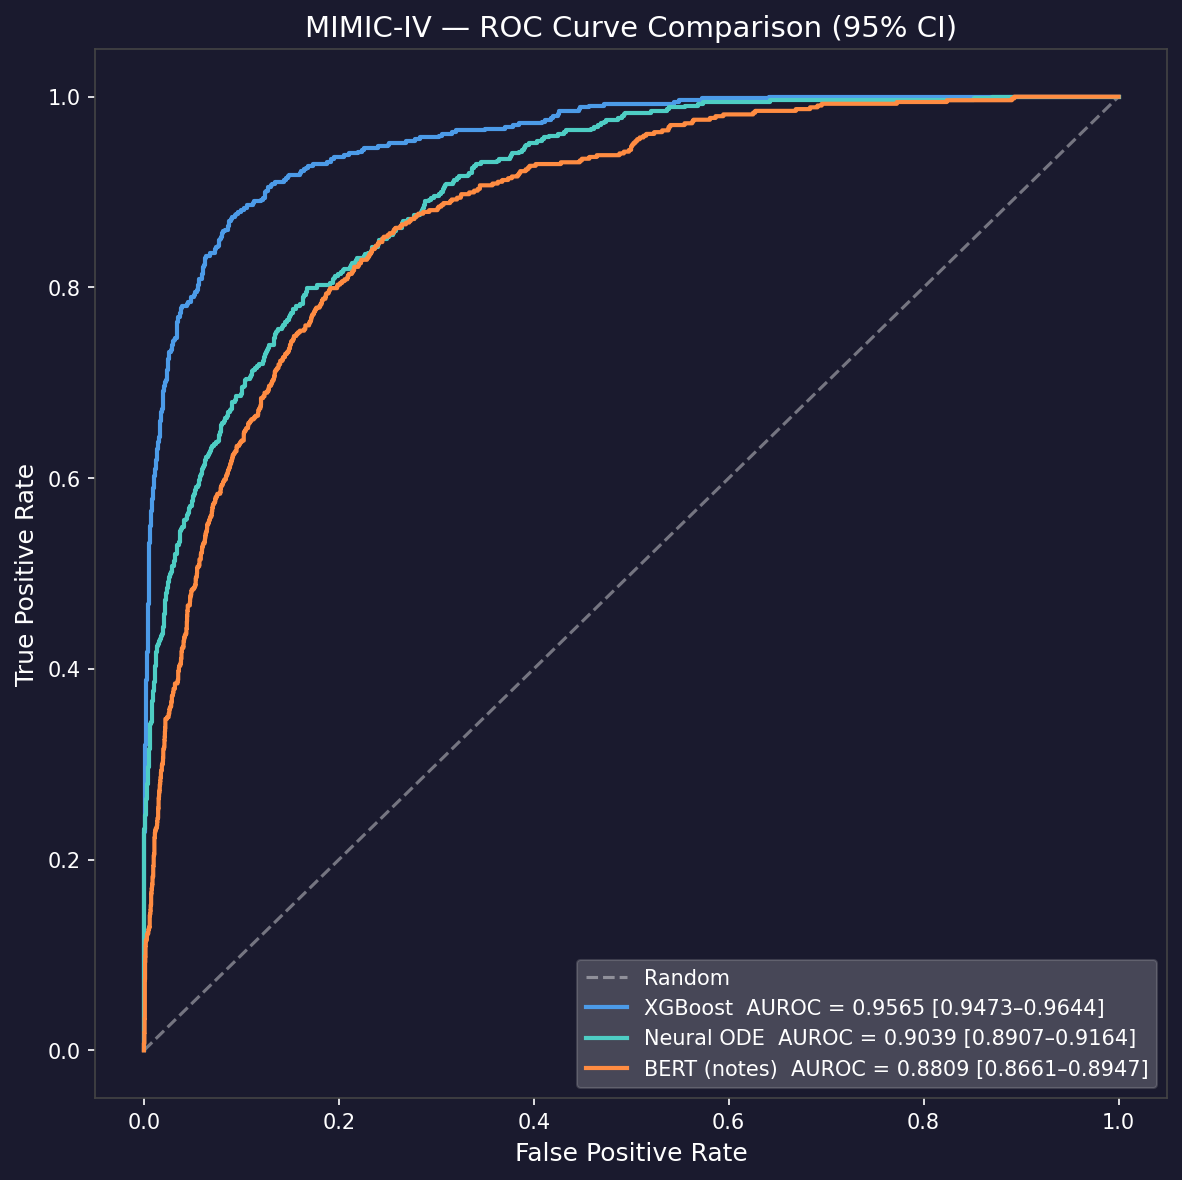
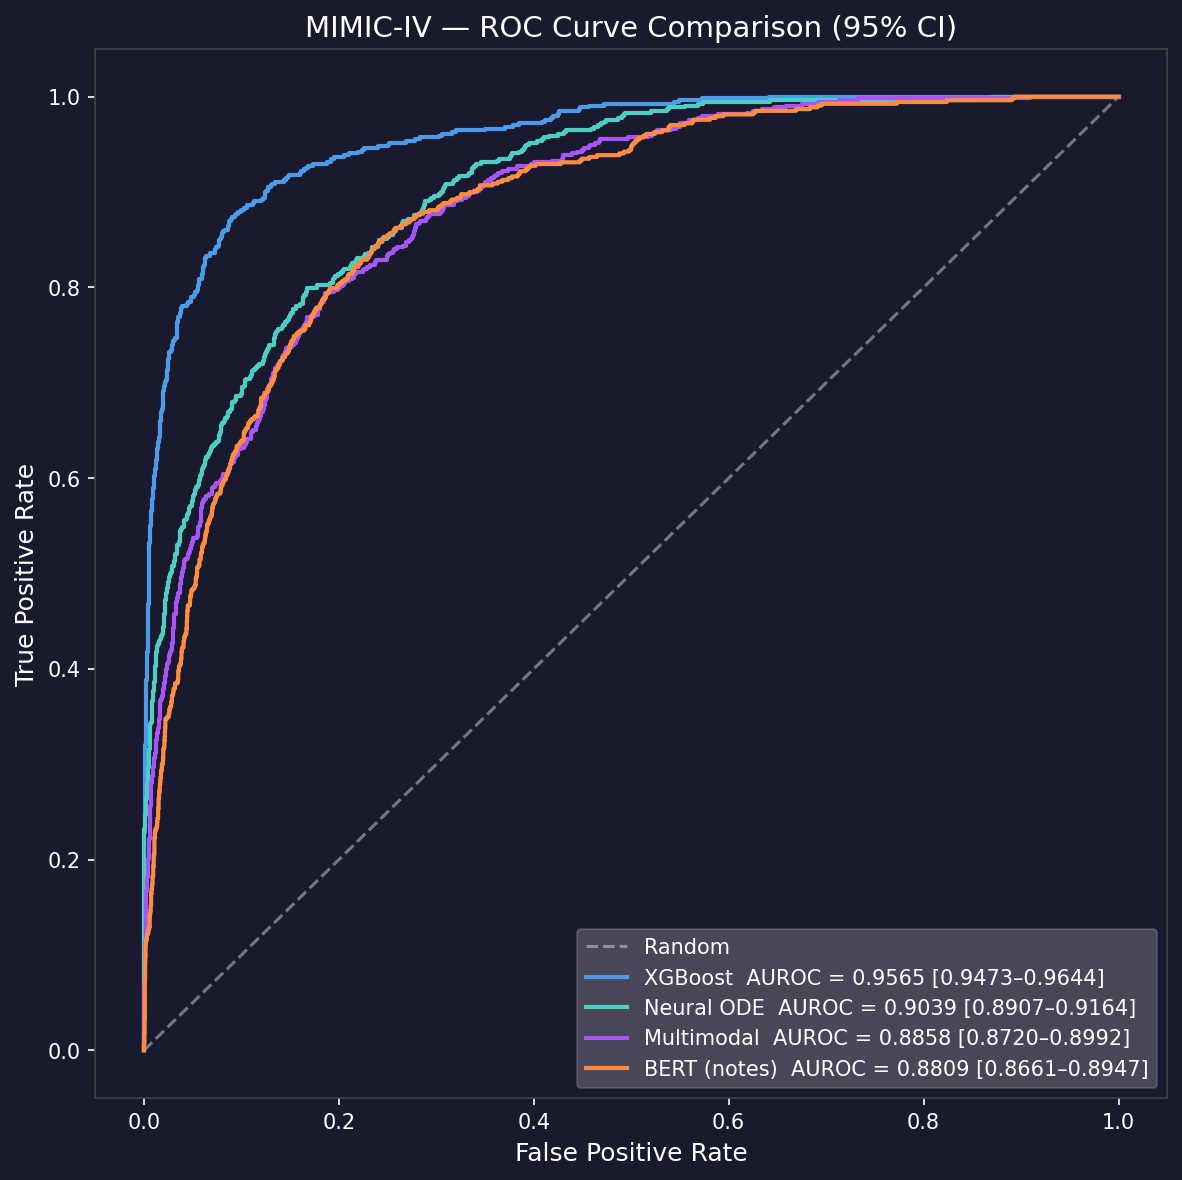
Final 4-model results: add multimodal (0.8858), update plots and README with complete findings

diff --git a/README.md b/README.md
@@ -20,11 +20,16 @@ All models evaluated on an identical canonical test set (n=4,715, 11.4% mortalit
 |-------|-----------|--------|-----------|--------|-------|
 | **XGBoost** | **0.9565** | [0.9473, 0.9644] | **0.8269** | [0.7976, 0.8524] | Structured vitals (20 vars, 160 features) |
 | **Neural ODE** | **0.9039** | [0.8907, 0.9164] | **0.6661** | [0.6292, 0.7013] | Structured vitals (20 vars, hourly 48h) |
-| **BERT (notes)** | **0.8809** | [0.8661, 0.8947] | **0.5387** | [0.4916, 0.5839] | First-48h nursing/physician notes |
+| Multimodal (GRU + BERT) | 0.8858 | [0.8720, 0.8992] | — | — | Structured vitals + clinical notes (frozen BERT) |
+| BERT (notes) | 0.8809 | [0.8661, 0.8947] | 0.5387 | [0.4916, 0.5839] | First-48h nursing/physician notes |
 
 **Statistical significance:** All pairwise differences are significant (non-overlapping CIs). XGBoost vs Neural ODE: DeLong z=11.22, p < 0.0001.
 
-**Key finding:** Structured time-series models significantly outperform text-based approaches. Feature-engineered XGBoost dominates, suggesting that careful statistical summaries of vitals capture more predictive signal than continuous-time modeling for this task. Multimodal fusion (Neural ODE latent + BERT CLS) is the natural next step.
+**Key findings:**
+- Structured time-series models significantly outperform text-based approaches at every comparison
+- Feature-engineered XGBoost (0.9565) dominates all neural approaches — careful statistical summaries of vitals capture more signal than continuous-time modeling on this dataset
+- Multimodal fusion (GRU + frozen BERT) marginally outperforms BERT alone (+0.005) but falls well short of Neural ODE on structured data alone — clinical notes add minimal complementary signal beyond what vitals already capture
+- The structured-vs-text performance gap persists even when fusing both modalities, suggesting future work should focus on better time-series architectures or larger language models (LoRA fine-tuning of 7B+ models)
 
 #### ROC Curve Comparison (95% CI)
 ![Model Comparison](results/plots/compare_roc_ci.png)
@@ -106,10 +111,12 @@ Observations (irregular) --> GRU Encoder (backwards) --> z0 ~ N(mean, var)
 - Input: concatenated first-48h nursing and physician notes (max 512 tokens)
 - CLS token → linear classifier
 
-### Multimodal Fusion (In Progress)
+### Multimodal Fusion
 - GRU encoder (time series) → 64-dim latent
-- ClinicalBERT (notes) → 768-dim CLS token
-- Concat → FC(832→256) → ReLU → Dropout → FC(256→1)
+- ClinicalBERT (notes, frozen) → 768-dim CLS token
+- Concat → FC(832→256) → ReLU → Dropout(0.5) → FC(256→64) → Dropout(0.3) → FC(64→1)
+- Differential LRs: BERT 1e-5 (unused when frozen), GRU+head 1e-4
+- Best val AUROC 0.8920 at epoch 22/25, no overfitting with frozen BERT
 - Script: `src/mimic_train_multimodal.py`
 
 ---
